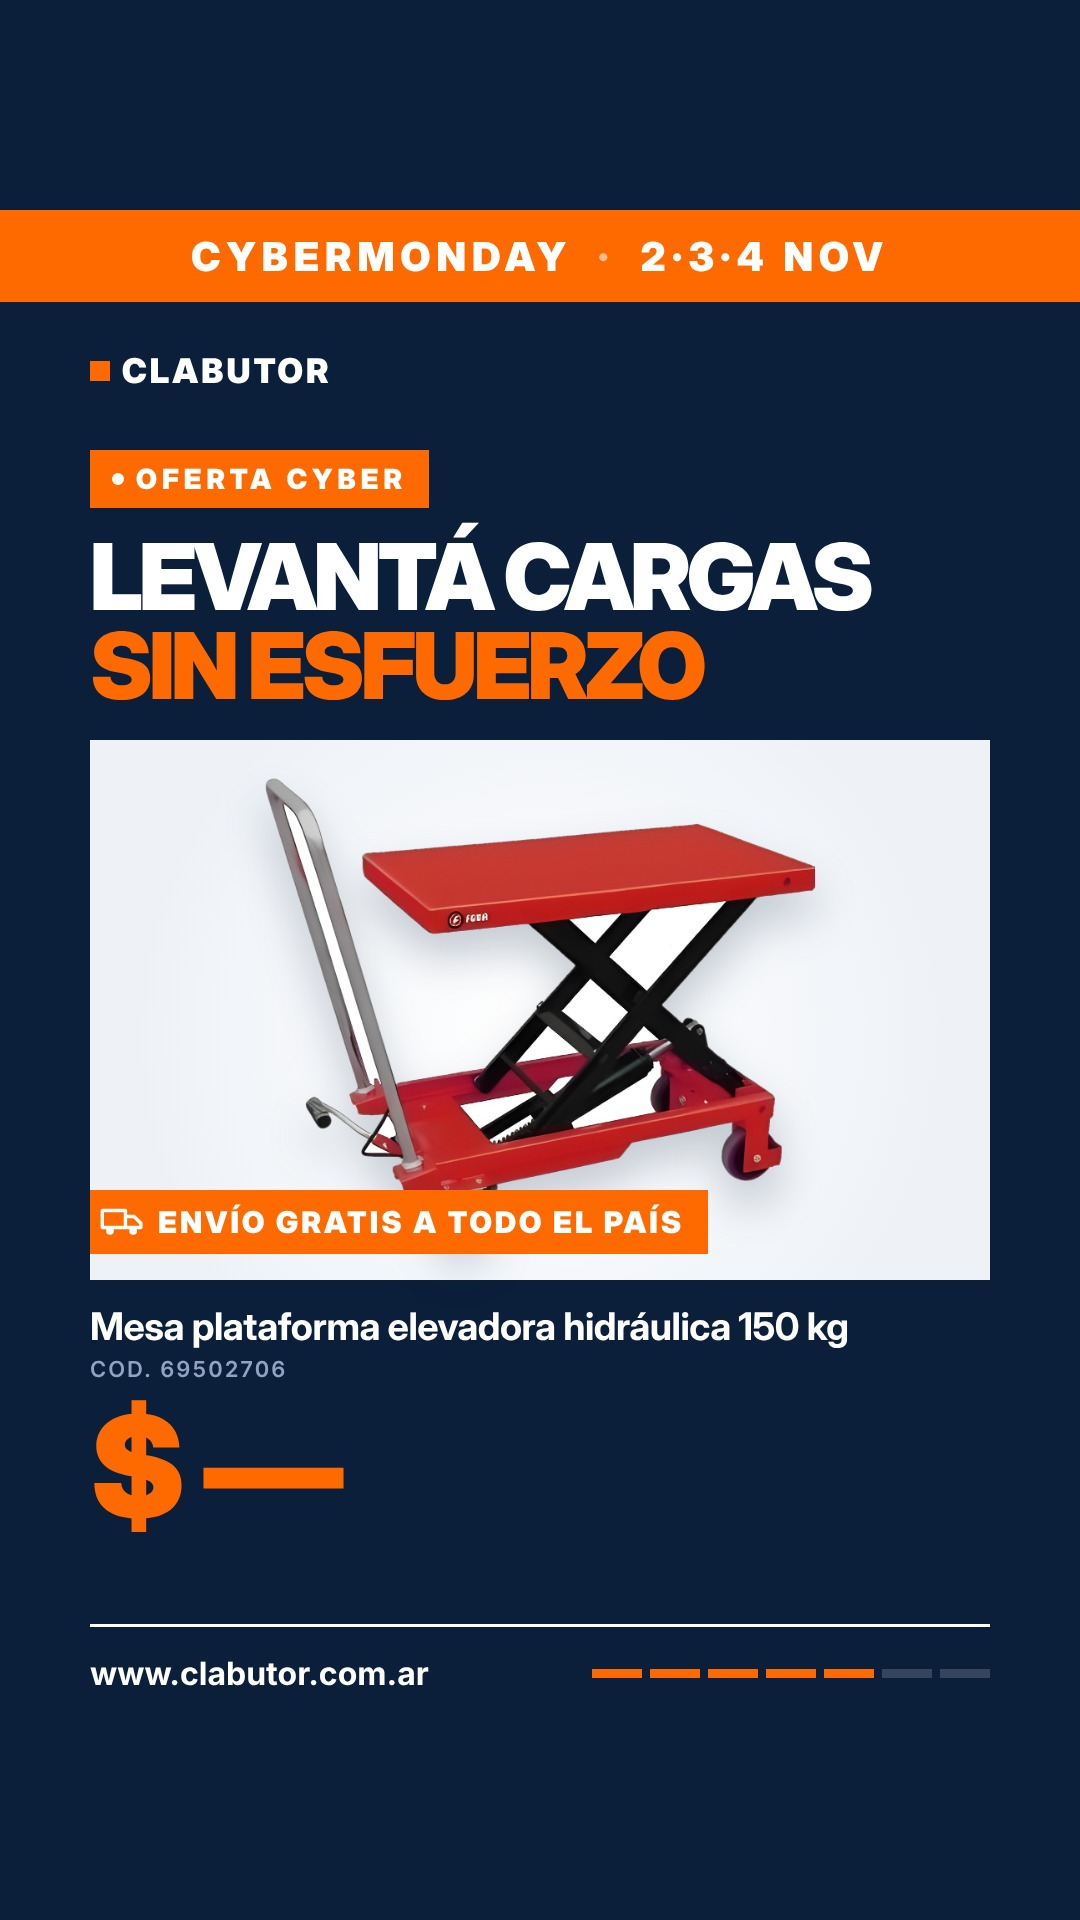
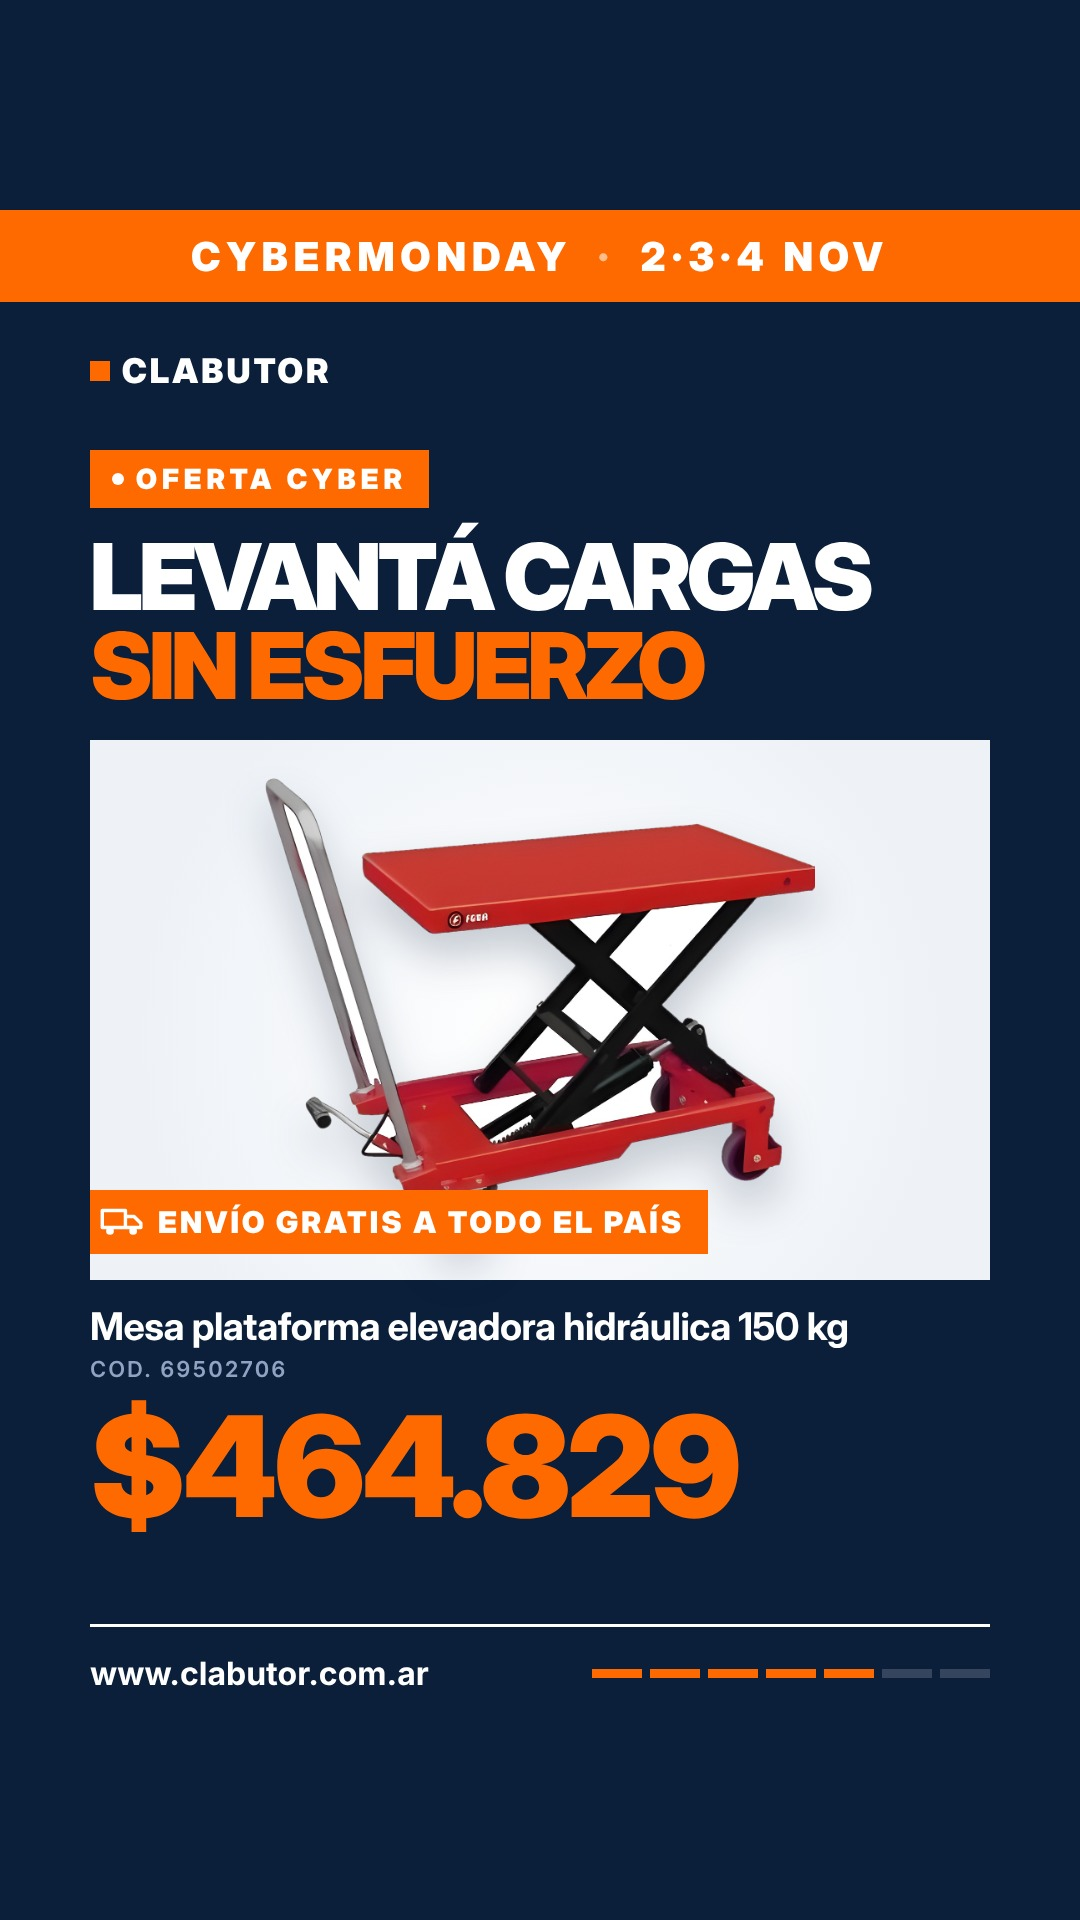
Historias C: precios de mesa, compresor y desmalezadora (costo BaseLinker +35 %)
Claude-Session: https://claude.ai/code/session_01XbJLpPx7CCs1ipZpL6GiAh

Changed region(s): [[0.1528, 0.7188, 0.7028, 0.8125]]

diff --git a/disenos/posteos/historia-cyber-c.py b/disenos/posteos/historia-cyber-c.py
@@ -10,6 +10,11 @@ TEXTO = ""
 
 NARANJA = "#FF6A00"
 
+# Placas 5 a 7: precio = costo informado por la sincronización (BaseLinker, grupo 65271,
+# INVENTARIO COMPLETO FEMA 2026 MATIAS) + 35 %, redondeado al peso.
+COSTO = {"69502706": 344318, "69370216": 723465.6, "69372106": 298014.08}
+MARGEN = 1.35
+
 # sku, nombre, antes (web), ahora, título comercial, envío gratis
 OFERTAS = [
     ("G1910KAR", "Amoladora angular en kit 750 W Gamma", 196119, 85500,
@@ -18,11 +23,11 @@ OFERTAS = [
      "Soldá como<br><em>un profesional</em>", False),
     ("601.IE.6200.7", "Soldadora inverter 220 A Salkor", 376490, 260000,
      "Más potencia<br><em>para soldar</em>", False),
-    ("69502706", "Mesa plataforma elevadora hidráulica 150 kg", None, None,
+    ("69502706", "Mesa plataforma elevadora hidráulica 150 kg", None, round(COSTO["69502706"] * MARGEN),
      "Levantá cargas<br><em>sin esfuerzo</em>", True),
-    ("69370216", "Compresor a correa 3 HP 180 L", None, None,
+    ("69370216", "Compresor a correa 3 HP 180 L", None, round(COSTO["69370216"] * MARGEN),
      "Aire de sobra<br><em>para tu taller</em>", True),
-    ("69372106", "Desmalezadora Stiga SB 520 D 52 cc", None, None,
+    ("69372106", "Desmalezadora Stiga SB 520 D 52 cc", None, round(COSTO["69372106"] * MARGEN),
      "Tu jardín,<br><em>impecable</em>", True),
 ]
 
